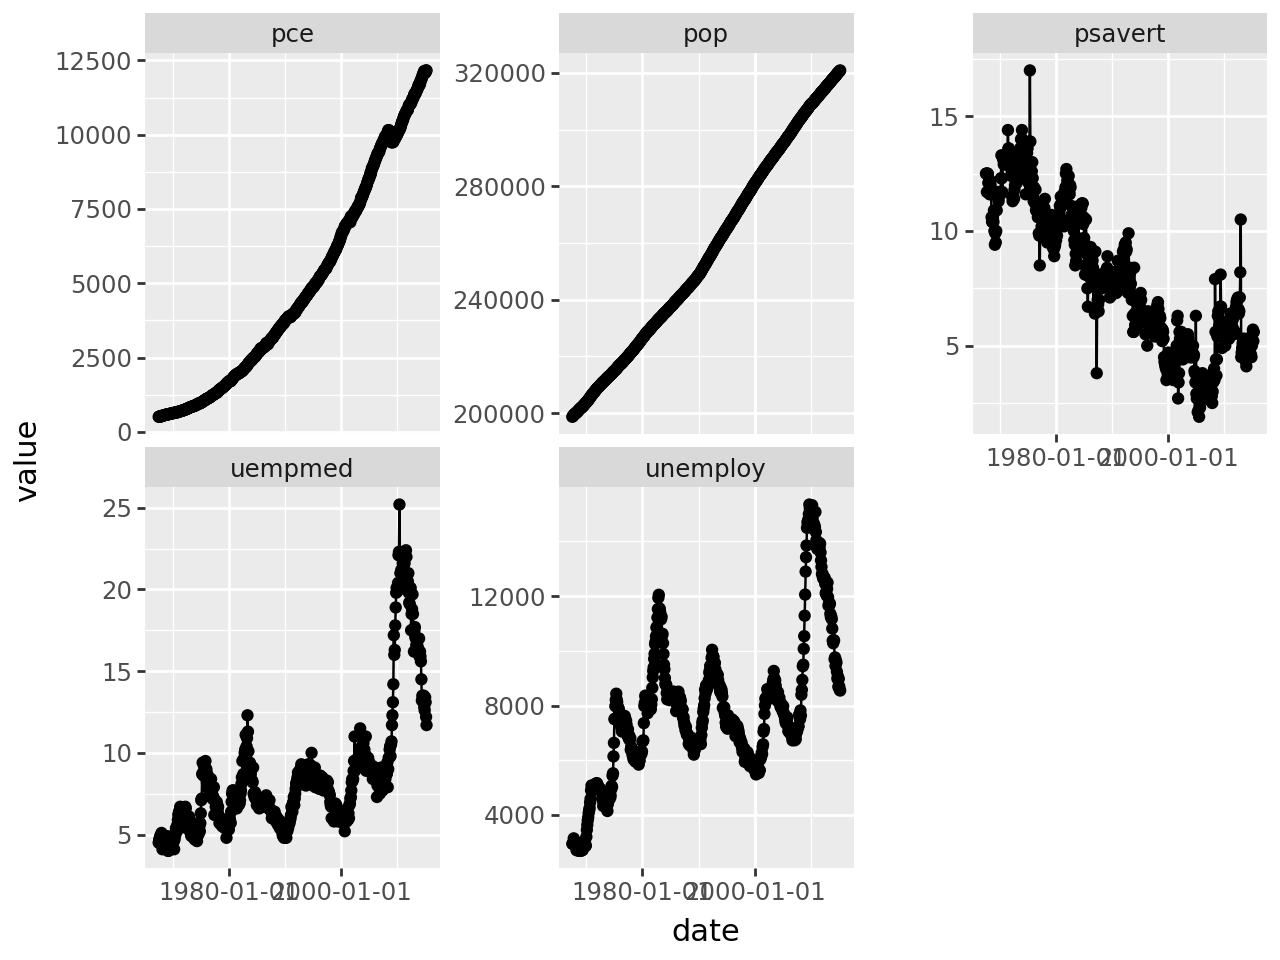
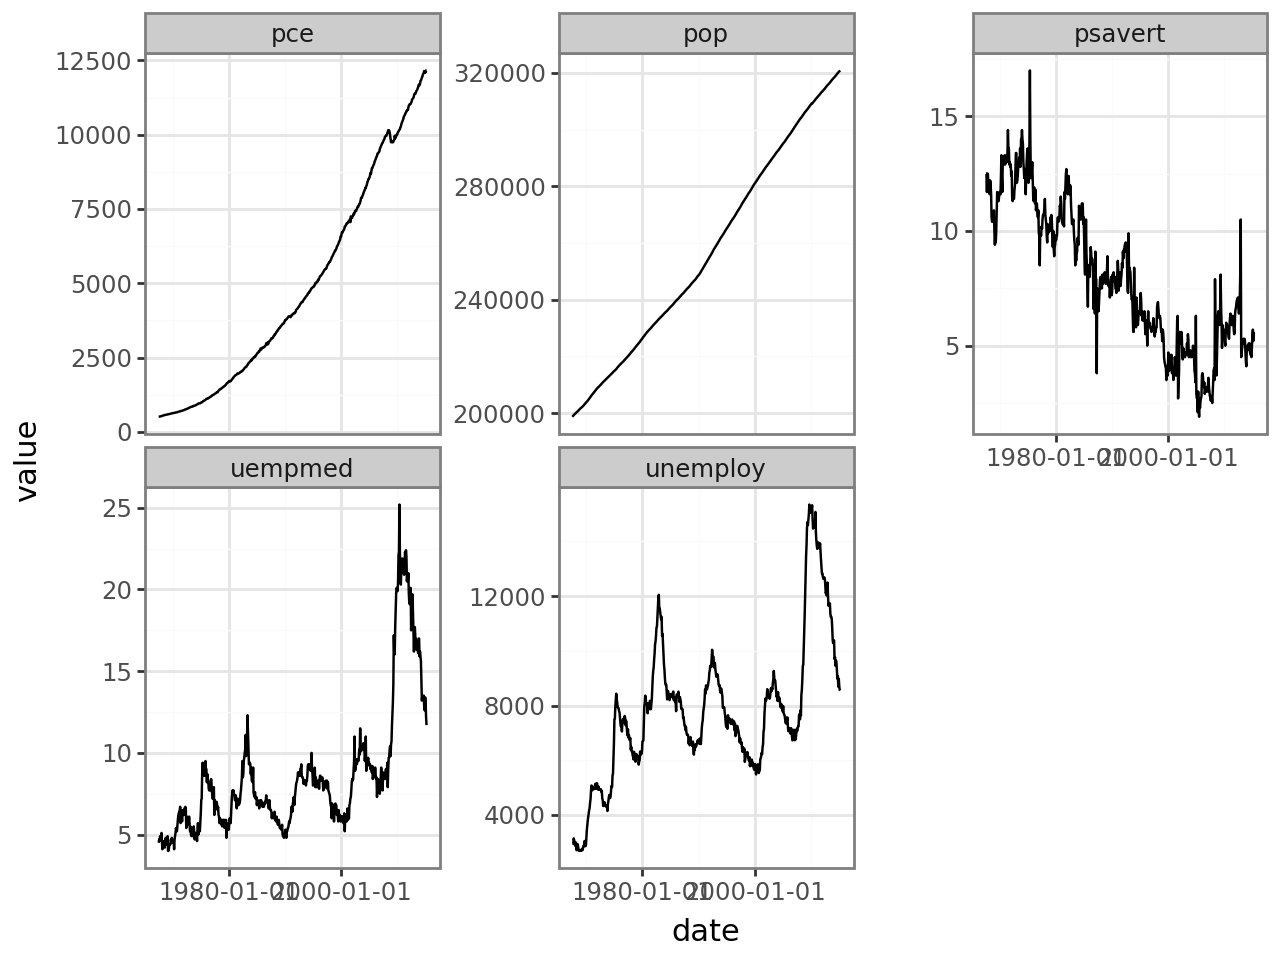
update plots

diff --git a/docs/python_closeread.html b/docs/python_closeread.html
@@ -7,7 +7,7 @@
 <meta name="viewport" content="width=device-width, initial-scale=1.0, user-scalable=yes">
 
 
-<title>Closeread formats and colors – scrollytelling_closeread</title>
+<title>Features – Closeread Functionalities</title>
 <style>
 code{white-space: pre-wrap;}
 span.smallcaps{font-variant: small-caps;}
@@ -118,7 +118,7 @@ pre > code.sourceCode > span > a:first-child::before { text-decoration: underlin
       <div class="navbar-container container-fluid">
       <div class="navbar-brand-container mx-auto">
     <a class="navbar-brand" href="./index.html">
-    <span class="navbar-title">scrollytelling_closeread</span>
+    <span class="navbar-title">Closeread Functionalities</span>
     </a>
   </div>
             <div id="quarto-search" class="" title="Search"></div>
@@ -127,10 +127,6 @@ pre > code.sourceCode > span > a:first-child::before { text-decoration: underlin
 </button>
           <div class="collapse navbar-collapse" id="navbarCollapse">
             <ul class="navbar-nav navbar-nav-scroll me-auto">
-  <li class="nav-item">
-    <a class="nav-link" href="./index.qmd"> 
-<span class="menu-text">Home</span></a>
-  </li>  
   <li class="nav-item">
     <a class="nav-link active" href="./python_closeread.html" aria-current="page"> 
 <span class="menu-text">Closeread formats and colors</span></a>
@@ -154,15 +150,15 @@ pre > code.sourceCode > span > a:first-child::before { text-decoration: underlin
         :root {
           --cr-narrative-background-color-overlay: #9e948f;
 --cr-narrative-text-color-sidebar: #F0E8E4;
---cr-narrative-background-color-sidebar: #563f46;
 --cr-narrative-text-color-overlay: #F0E8E4;
+--cr-narrative-background-color-sidebar: #563f46;
         }
       </style>
     
 
 <header id="title-block-header" class="quarto-title-block default">
 <div class="quarto-title">
-<h1 class="title">Closeread formats and colors</h1>
+<h1 class="title">Features</h1>
 </div>
 
 
@@ -191,24 +187,24 @@ pre > code.sourceCode > span > a:first-child::before { text-decoration: underlin
 <p>Draw your readers attention with:</p>
 </div>
 </div>
-<div class="trigger new-trigger" data-highlight="1-5" data-focus-on="cr-plotnine">
+<div class="trigger new-trigger" data-focus-on="cr-plotnine" data-highlight="1-5">
 <div class="narrative">
-<p>We load the library.</p>
+<p>The first step is load the library, enabling access to its full set of features for the tasks ahead.</p>
 </div>
 </div>
-<div class="trigger new-trigger" data-highlight="6" data-focus-on="cr-plotnine">
+<div class="trigger new-trigger" data-focus-on="cr-plotnine" data-highlight="6">
 <div class="narrative">
-<p>We use a data frame with economic data.</p>
+<p>The next step is loading a data frame with economic data, enabling us to explore patterns and relationships across various financial indicators.</p>
 </div>
 </div>
-<div class="trigger new-trigger" data-highlight="9" data-focus-on="cr-plotnine">
+<div class="trigger new-trigger" data-focus-on="cr-plotnine" data-highlight="9">
 <div class="narrative">
-<p>We plot the values using date(x axis) and values(y axis).</p>
+<p>We generate a plot to visualize the data, using dates on the x-axis and corresponding value on the y-axis. This allows us to observe trends over time, identify patterns, and hightlight any significant fluctuations or anomalies in the dataset.</p>
 </div>
 </div>
-<div class="trigger new-trigger" data-highlight="12" data-focus-on="cr-plotnine">
+<div class="trigger new-trigger" data-focus-on="cr-plotnine" data-highlight="11">
 <div class="narrative">
-<p>We split the chart by variable type.</p>
+<p>By splitting the chart based on variable type, we can highlight how different kinds of data behave and interact within the dataset.</p>
 </div>
 </div>
 <div class="trigger new-trigger" data-focus-on="cr-kpi">
@@ -216,29 +212,29 @@ pre > code.sourceCode > span > a:first-child::before { text-decoration: underlin
 <p>Now, how to explain this chart?</p>
 </div>
 </div>
-<div class="trigger new-trigger" data-scale-by="2" data-pan-to="60%,50%" data-focus-on="cr-kpi">
+<div class="trigger new-trigger" data-focus-on="cr-kpi" data-scale-by="2" data-pan-to="60%,50%">
 <div class="narrative">
-<p>pce is personal consumption expenditure.</p>
+<p>PCE(Personal Consumption Expenditures) represents the total value of goods and services consumed by individuals. It is a key indicator of consumer spending and is used to assess economic activity and inflation trends.</p>
 </div>
 </div>
-<div class="trigger new-trigger" data-scale-by="2" data-pan-to="-20%,50%" data-focus-on="cr-kpi">
+<div class="trigger new-trigger" data-focus-on="cr-kpi" data-scale-by="2" data-pan-to="-20%,50%">
 <div class="narrative">
-<p>pop is population of United States.</p>
+<p>POP(Population of the United States) refers to the total number of people residing in the U.S. This variable is essential for per capital calculations and demographic analysis.</p>
 </div>
 </div>
-<div class="trigger new-trigger" data-scale-by="2" data-pan-to="-80%,50%" data-focus-on="cr-kpi">
+<div class="trigger new-trigger" data-focus-on="cr-kpi" data-scale-by="2" data-pan-to="-80%,50%">
 <div class="narrative">
-<p>psavert is saving rates in pencentage.</p>
+<p>PSAVERT(Personal Saving Rate) Indicates the percentage of disposable income that individuals save rather than spend. It reflects consumer financial behavior and economic confidence.</p>
 </div>
 </div>
-<div class="trigger new-trigger" data-scale-by="2" data-pan-to="50%,-40%" data-focus-on="cr-kpi">
+<div class="trigger new-trigger" data-focus-on="cr-kpi" data-scale-by="2" data-pan-to="50%,-40%">
 <div class="narrative">
-<p>uempmed is median duration of unemployment.</p>
+<p>UEMPMED(Median Duration of Unemployment) Measures the median number of weeks individuals remain unemployed. It helps assess the health of the labor market and the effectiveness of job placement effors.</p>
 </div>
 </div>
-<div class="trigger new-trigger" data-scale-by="2" data-pan-to="-20%,-40%" data-focus-on="cr-kpi">
+<div class="trigger new-trigger" data-focus-on="cr-kpi" data-scale-by="2" data-pan-to="-20%,-40%">
 <div class="narrative">
-<p>unemploy is unemployment rate.</p>
+<p>ENEMPLOY(Unemployment Rate) represents the percentage of the labor force that is actively seeking but unable to find employment. It is a core indicator of economic performance and labor market conditions.</p>
 </div>
 </div>
 <div class="trigger new-trigger" data-focus-on="cr-videonn">
@@ -262,7 +258,7 @@ pre > code.sourceCode > span > a:first-child::before { text-decoration: underlin
 </ol>
 </div>
 <div id="cr-plotnine" class="sticky">
-<div id="2b90384c" class="cell" data-execution_count="1">
+<div id="9098ec15" class="cell" data-execution_count="1">
 <div class="sourceCode cell-code" id="cb1"><pre class="sourceCode python code-with-copy"><code class="sourceCode python"><span id="cb1-1"><a href="#cb1-1" aria-hidden="true" tabindex="-1"></a><span class="im">import</span> numpy <span class="im">as</span> np</span>
 <span id="cb1-2"><a href="#cb1-2" aria-hidden="true" tabindex="-1"></a><span class="im">import</span> pandas <span class="im">as</span> pd</span>
 <span id="cb1-3"><a href="#cb1-3" aria-hidden="true" tabindex="-1"></a><span class="im">import</span> plotnine</span>
@@ -272,9 +268,9 @@ pre > code.sourceCode > span > a:first-child::before { text-decoration: underlin
 <span id="cb1-7"><a href="#cb1-7" aria-hidden="true" tabindex="-1"></a></span>
 <span id="cb1-8"><a href="#cb1-8" aria-hidden="true" tabindex="-1"></a>(</span>
 <span id="cb1-9"><a href="#cb1-9" aria-hidden="true" tabindex="-1"></a>ggplot(economics_long, aes(x <span class="op">=</span> <span class="st">"date"</span>, y <span class="op">=</span> <span class="st">"value"</span>))</span>
-<span id="cb1-10"><a href="#cb1-10" aria-hidden="true" tabindex="-1"></a><span class="op">+</span> geom_point()</span>
-<span id="cb1-11"><a href="#cb1-11" aria-hidden="true" tabindex="-1"></a><span class="op">+</span> geom_line()</span>
-<span id="cb1-12"><a href="#cb1-12" aria-hidden="true" tabindex="-1"></a><span class="op">+</span> facet_wrap(<span class="st">"variable"</span>, scales<span class="op">=</span><span class="st">'free_y'</span>)</span>
+<span id="cb1-10"><a href="#cb1-10" aria-hidden="true" tabindex="-1"></a><span class="op">+</span> geom_line()</span>
+<span id="cb1-11"><a href="#cb1-11" aria-hidden="true" tabindex="-1"></a><span class="op">+</span> facet_wrap(<span class="st">"variable"</span>, scales<span class="op">=</span><span class="st">'free_y'</span>)</span>
+<span id="cb1-12"><a href="#cb1-12" aria-hidden="true" tabindex="-1"></a><span class="op">+</span> theme_bw()</span>
 <span id="cb1-13"><a href="#cb1-13" aria-hidden="true" tabindex="-1"></a>)</span></code><button title="Copy to Clipboard" class="code-copy-button"><i class="bi"></i></button></pre></div>
 <div class="cell-output cell-output-display">
 <div>

diff --git a/README.md b/README.md
@@ -1,18 +1,15 @@
 ## About the project
 
-1. Testing features of the `closeread` extention for quarto_pub
-2. Test different layouts, colors and themes.
-3. Test different elements like text, images, videos, and code(python).
+1. Testing features of the `closeread` extension for Quarto Pub.
+2. Experimenting with different layouts, colors, and themes.
+3. Testing various elements such as text, images, videos, and Python code.
 
 ## Goals 
-- Identify how features can be applied to improve user experience, improving engagement in educational content.
-- Train skills in technical and scientific documentation
+- Identify how specific features can be applied to enhance user experience and increase engagement with educational content.
+- Develop skills in technical and scientific documentation.
 
 ## File name, usage and book page
     
-- **closeread_formats.qmd** : Using R programing language
-  > Testing the shapres, colors and position of objects(pc and mobile devices)
-
 - **python_closeread.qmd** : Using python programming language
   > Objects manipulations (e,g zoom, highlight etc)
 
